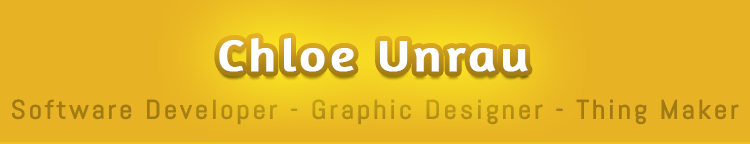
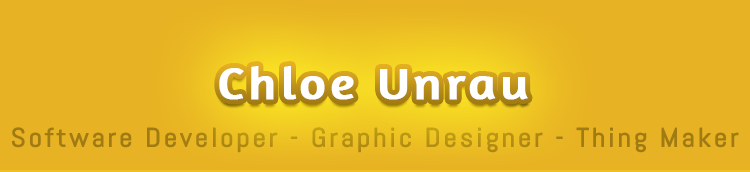
Increase the height of the header

Changed region(s): [[0.276, 0.2222, 0.736, 0.6389], [0.0, 0.6667, 1.0, 0.8889]]

diff --git a/styles/scss/chloe.scss b/styles/scss/chloe.scss
@@ -28,7 +28,7 @@ $chloeGreenLight: #4edf8e;
 
 $fullWidth: 650px;
 $smallWidth: 649px;
-$headerHeight: 72px;
+$headerHeight: 86px;
 $menuHomeWidth: 74px;
 $menuBlogWidth: 65px;
 $menuPortfolioWidth: 105px;
@@ -39,8 +39,8 @@ $socialHeight: 200px;
 $smallSocialSize: 32px;
 $pictureWidth: 123px;
 $pictureHeight: 164px;
-$tileHeaderSize: 5px 72px;
-$tileMenuSize: 5px 49px;
+$tileHeaderSize: 5px $headerHeight;
+$tileMenuSize: 5px $menuHeight;
 $tileSocialSize: 5px 200px;
 $tileFooterSize: 5px 45px;
 

diff --git a/style.css b/style.css
@@ -1,6 +1,6 @@
 /*
 Theme Name: May Contain Chloe
-Version: 1.66
+Version: 1.67
 Theme URI: http://www.chloeunrau.com
 Author: Chloe Unrau
 Author URI: http://www.chloeunrau.com
